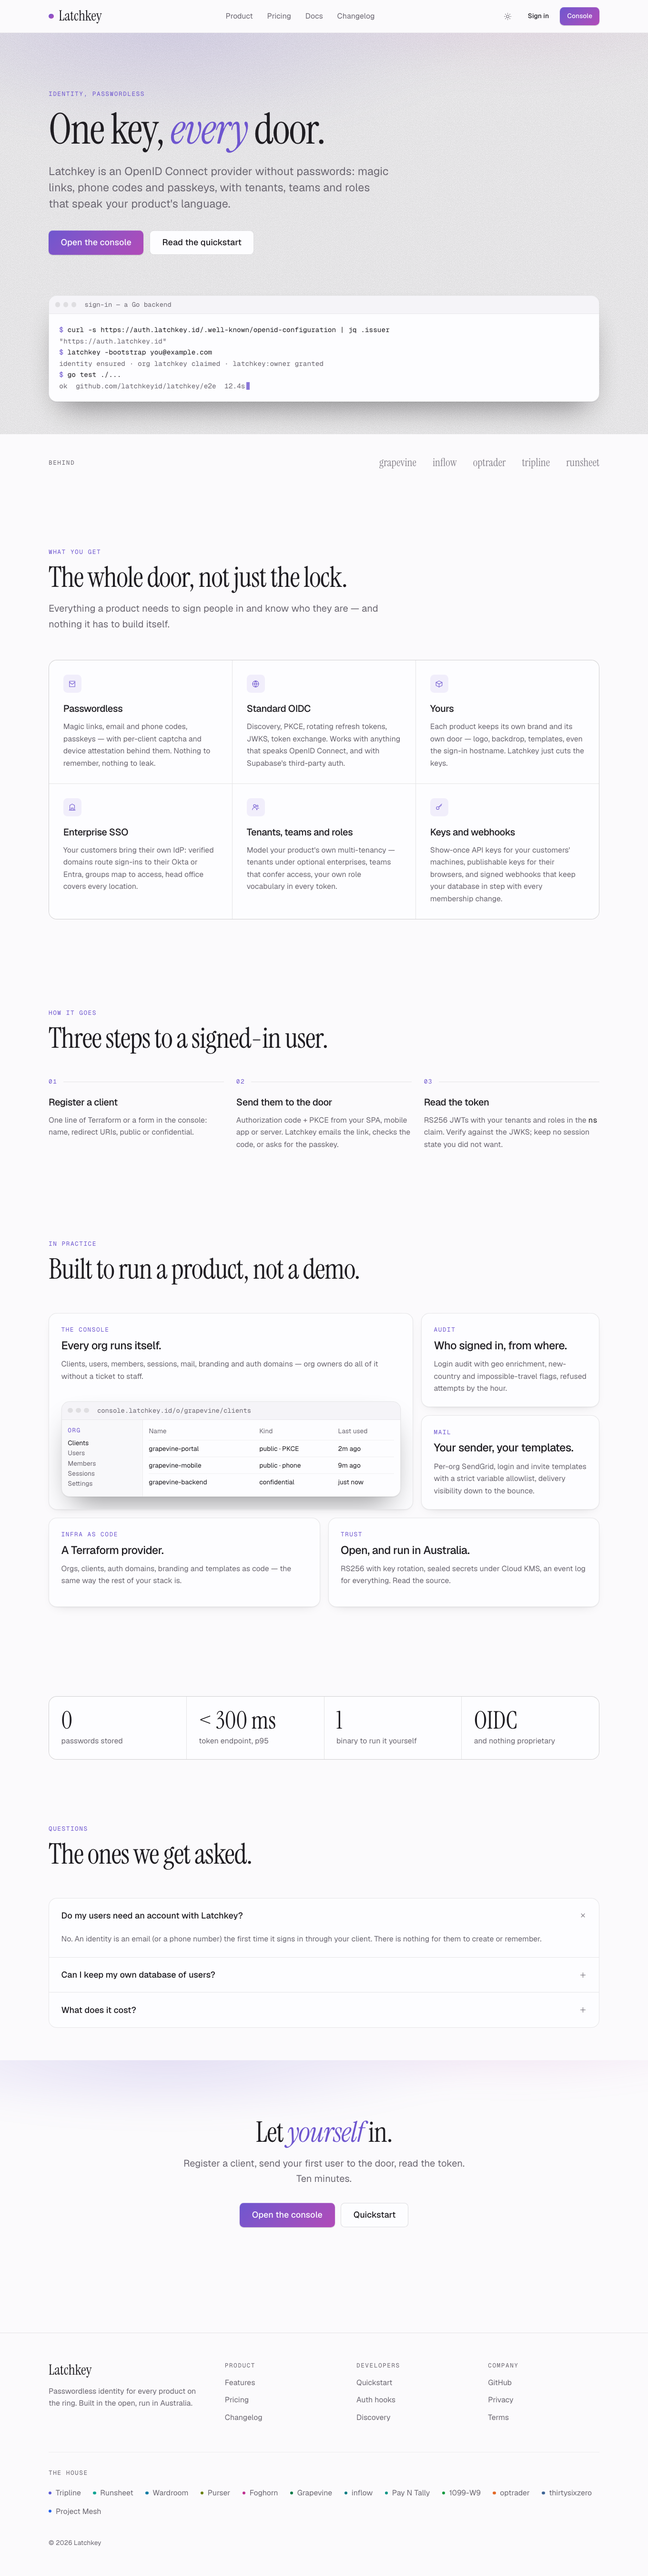
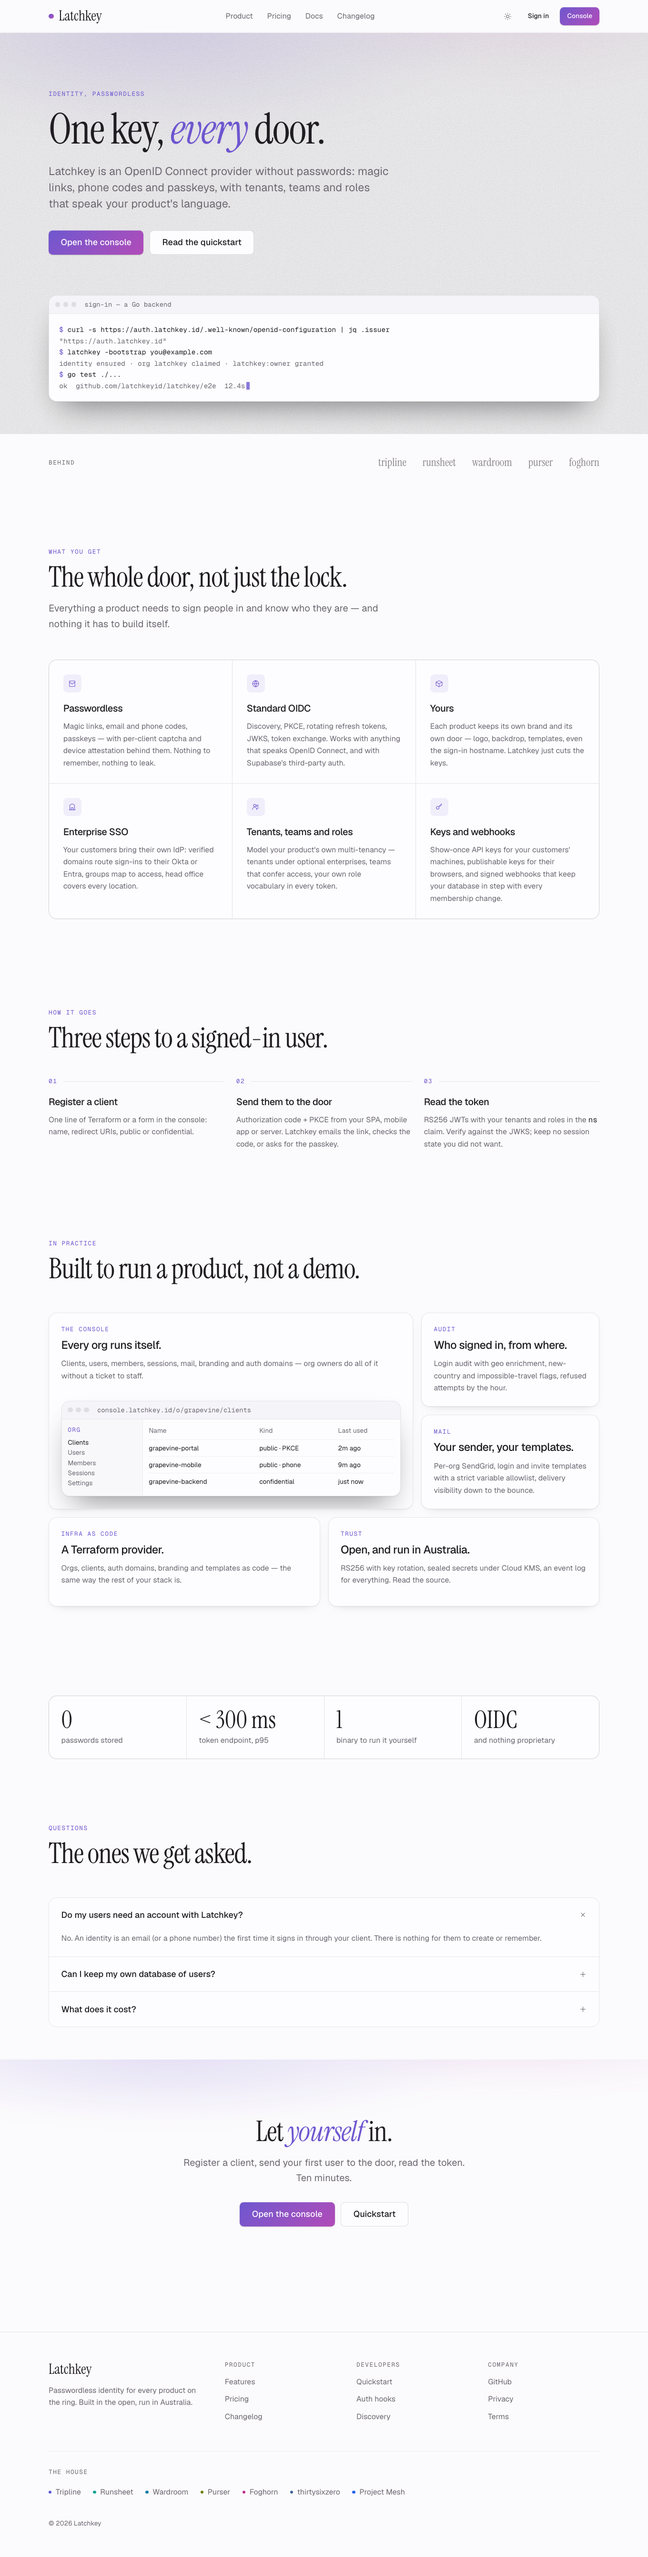
Scope the house to the eight products on this shell
Project Mesh and thirtysixzero are in, with their own adoption briefs
(mesh-marketing's Pages project and blue/cyan brand; thirtysixzero's
apex decision and provisional accent). grapevine, inflow, Pay N Tally,
1099-W9 and optrader are not part of this: out of house.ts, their
accent files, the playground, the screenshots and the rollout.

Claude-Session: https://claude.ai/code/session_01Vk95dPrsCrGZf9uXzuMiyh

diff --git a/src/house.ts b/src/house.ts
@@ -21,13 +21,8 @@ export const house: Product[] = [
   { id: "wardroom", name: "Wardroom", line: "The team hub: every tool's feed in one place.", url: "https://wardroom.id", accent: "wardroom", console: "https://app.wardroom.id" },
   { id: "purser", name: "Purser", line: "Support, contacts and leads for your products.", url: "https://purser.id", accent: "purser", console: "https://app.purser.id" },
   { id: "foghorn", name: "Foghorn", line: "Campaigns, email and attribution, loud and clear.", url: "https://foghorn.id", accent: "foghorn", console: "https://app.foghorn.id" },
-  { id: "grapevine", name: "Grapevine", line: "Local hiring for hospitality and retail.", url: "https://gvn.au", accent: "grapevine", console: "https://app.gvn.au" },
-  { id: "inflow", name: "inflow", line: "Filing and payments infrastructure for US businesses.", url: "https://myinflow.com", accent: "inflow" },
-  { id: "payntally", name: "Pay N Tally", line: "Contractor payments with the 1099s done.", url: "https://www.payntally.com", accent: "payntally" },
-  { id: "ten99", name: "1099-W9", line: "1099 filing, W-9 collection, TIN matching.", url: "https://1099-w9.com", accent: "ten99" },
-  { id: "optrader", name: "optrader", line: "The marketplace for card traders.", url: "https://optrader.com.au", accent: "optrader" },
   { id: "thirtysixzero", name: "thirtysixzero", line: "Configuration items, connected to the tools that run your business.", url: "https://thirtysixzero.io", accent: "thirtysixzero" },
-  { id: "projectmesh", name: "Project Mesh", line: "Specs, work items and agents, machine-authenticated.", url: "https://projectmesh.io", accent: "projectmesh" },
+  { id: "projectmesh", name: "Project Mesh", line: "The control plane for your AI agent fleet.", url: "https://projectmesh.io", accent: "projectmesh", console: "https://app.projectmesh.io" },
 ];
 
 export function product(id: string): Product | undefined {

diff --git a/e2e/screens.spec.ts b/e2e/screens.spec.ts
@@ -1,8 +1,8 @@
 import { expect, test, type Page } from "@playwright/test";
 
 // Every product's accent on the same page, light and dark, desktop and
-// phone: the proof that the shell is one design with thirteen skins.
-const themes = ["latchkey", "tripline", "runsheet", "wardroom", "purser", "foghorn", "grapevine", "inflow", "payntally", "ten99", "optrader", "thirtysixzero", "projectmesh"] as const;
+// phone: the proof that the shell is one design with eight skins.
+const themes = ["latchkey", "tripline", "runsheet", "wardroom", "purser", "foghorn", "projectmesh", "thirtysixzero"] as const;
 
 async function open(page: Page, path: string, theme: string, dark: boolean) {
   await page.emulateMedia({ reducedMotion: "reduce", colorScheme: dark ? "dark" : "light" });

diff --git a/docs/adopt/THIRTYSIXZERO.md b/docs/adopt/THIRTYSIXZERO.md
@@ -1,0 +1,37 @@
+# Adopt in thirtysixzero's www
+
+Repo: `thirtysixzero/thirtysixzero` — the product itself, a Next.js 16
+app (App Router, Supabase, Drizzle, pnpm) deployed on Vercel
+(`vercel.json`). There is no marketing site; the app's `app/page.tsx`
+is the entry. The `thirtysixzero.io` zone is in Cloudflare.
+
+- **Decision for Chris before starting**: the site wants the apex.
+  Either the app moves to `app.thirtysixzero.io` (a Vercel domain
+  change + a DNS record) and the site takes `thirtysixzero.io` +
+  `www.`, or the site lives at `www.thirtysixzero.io` only and the apex
+  stays the app. Write the brief's DNS step for whichever is chosen.
+- The site lives at `www/` in this repo, built and deployed by its own
+  workflow (`www.yml`: `paths: [www/**]`, Node 22, `npm ci && npm run
+  build`, `wrangler pages deploy dist --project-name thirtysixzero-www`;
+  repo secrets `CLOUDFLARE_API_TOKEN` / `CLOUDFLARE_ACCOUNT_ID`). The
+  Pages project, custom domain(s) and proxied CNAME(s) are new: add a
+  small `infra/cloudflare` stack on the wardroom shape (`FOGHORN.md`
+  has the resources; this zone takes `var.zone_id` like tripline's) —
+  or, if Chris prefers no Terraform in an app repo, say so and create
+  them in the dashboard, recorded in the PR.
+- Product id `thirtysixzero`; accent `thirtysixzero.css` is
+  **PROVISIONAL** (steel, `#3E6596` / `#7EA7DC`) — the app is black on
+  white with no brand colour. Confirm it with Chris or propose one from
+  the app's own UI before the first screenshot.
+- Copy from `README.md`: configuration items connected to the tools
+  that run your business — CI types, configuration items, plugins
+  (GitHub deployments, PagerDuty incidents, Stripe revenue),
+  connections. Hero headline suggestion: "Every system, on *one* item."
+  Hero visual: a `Window` of a CI ("Checkout Service") with three plugin
+  cards showing live data — the concept table made visible. Features =
+  the four concepts; Steps = create a CI type, add an item, attach a
+  plugin. No pricing until there is one. Docs: the README's concepts
+  and getting started as two MDX pages. Changelog: last three
+  user-visible commits.
+- Nav: Product, Docs, Changelog; primary "Sign in" → the app's URL
+  (whichever host it ends up on); no secondary.

diff --git a/docs/adopt/ROLLOUT.md b/docs/adopt/ROLLOUT.md
@@ -6,6 +6,9 @@ most read; then the three new services, which have no site at all and
 whose `infra/cloudflare` stacks are already in Terraform; then the
 products with sites that work today.
 
+**Not part of this**: grapevine, inflow, Pay N Tally, 1099-W9 and
+optrader keep their own sites and are not in `house.ts`.
+
 | # | Product | Site today | Where the new site lives | Accent | Status |
 | --- | --- | --- | --- | --- | --- |
 | 1 | latchkey | one hand-written HTML file + 2 docs pages, brass, in `latchkeyid/ui/www` | `latchkeyid/ui/www` (replace contents) | shell's, verbatim | ready — `LATCHKEY.md` |
@@ -14,9 +17,8 @@ products with sites that work today.
 | 4 | wardroom | none | `wardroomid/wardroom/www` | shell's | ready — `WARDROOM.md` |
 | 5 | tripline | none; apex parked at Namecheap | `triplineid/tripline/www` | shell's | ready — `TRIPLINE.md` |
 | 6 | runsheet | Astro on Cloudflare, slate/indigo hand-rolled, in `runsheet/website` | `runsheet/website` (swap the layout) | shell's | ready — `RUNSHEET.md` |
-| 7 | grapevine | Next.js at gvn.au with real content | `GrapevineNetwork/website` | from the site's brand | later — bigger port |
-| 8 | Pay N Tally, 1099-W9, inflow | Astro / Vite+React / — | their repos | payntally, ten99, inflow (provisional) | later |
-| 9 | optrader, thirtysixzero, Project Mesh | Next.js app / Next.js / raw HTML | their repos | provisional accents | later — confirm accents first |
+| 7 | Project Mesh | raw HTML + Tailwind CDN on the `mesh-marketing` Pages project, dark blue/cyan | `projectmesh-io/mesh-marketing` (replace contents) | from the site's variables | ready — `PROJECTMESH.md` |
+| 8 | thirtysixzero | none — the Next.js app on Vercel is at the apex | `thirtysixzero/thirtysixzero/www` | provisional (steel) — confirm | ready — `THIRTYSIXZERO.md` |
 
 Status moves to "shipped <date> <sha>" when the PR merges and the Pages
 deploy is live; note the live URL.

diff --git a/docs/adopt/PROJECTMESH.md b/docs/adopt/PROJECTMESH.md
@@ -1,0 +1,30 @@
+# Adopt in Project Mesh's www
+
+Repo: `projectmesh-io/mesh-marketing` — four hand-written HTML pages
+(`index`, `features`, `pricing`, `docs`) on Tailwind's CDN build, dark
+only, blue `#2563EB` → cyan `#06B6D4` with a grid background and a hero
+glow. Deployed by `.github/workflows/deploy.yml` (`wrangler-action`,
+`pages deploy .` to the Pages project `mesh-marketing`; secrets already
+in the repo). The `projectmesh.io` zone is in Cloudflare with DNS
+managed in the dashboard — **there is no infra repo; leave DNS and the
+Pages project as they are.**
+
+- Replace the repo's contents with the template. Product id
+  `projectmesh`; accent `projectmesh.css` (blue → cyan, from the old
+  site's variables); `site: "https://projectmesh.io"`. The old site was
+  dark-only; the new one follows the system — its dark mode is where
+  the old look lands, so **set `defaultTheme: "dark"`** on `Site` for
+  this product only.
+- Copy: the old `index.html`'s hero ("The intelligence layer for your AI
+  fleet") and feature copy, `features.html` → `Features`/`Bento`,
+  `pricing.html` → `Pricing` with the **real** tiers from that page,
+  `docs.html` → one or more `src/content/docs/` pages by its headings.
+  Hero visual: a `Terminal` of `mesh-cli` (see `projectmesh-io/mesh-cli`
+  README for its real first commands: authenticate, list specs, open a
+  work item) — not a screenshot of the old grid art.
+- Nav: Product, Pricing, Docs, Changelog; secondary "Sign in" and
+  primary "Console" → `https://app.projectmesh.io` (from `house.ts`).
+  Changelog: seed from `mesh-portal` / `mesh-api` recent releases.
+- `deploy.yml`: add `setup-node`, `npm ci`, `npm run build`, and change
+  the command to `pages deploy dist --project-name=mesh-marketing`.
+- Delete the four HTML files when the port is complete.

diff --git a/README.md b/README.md
@@ -2,8 +2,7 @@
 
 One design and one set of Astro layouts for the product marketing sites
 — **latchkey**, **tripline**, **runsheet**, **wardroom**, **purser**,
-**foghorn**, **grapevine**, **inflow**, **Pay N Tally**, **1099-W9**,
-**optrader**, **thirtysixzero** and **Project Mesh**. The sibling of
+**foghorn**, **Project Mesh** and **thirtysixzero**. The sibling of
 [`@latchkey/shell`](https://github.com/latchkeyid/shell), which does the
 same for the consoles: the same mauve neutral, the same accent per
 product, so "Console" in the nav lands somewhere that looks like where
@@ -21,7 +20,7 @@ every product's accent on the same page is in `docs/screenshots/`.
 
 `docs/adopt/` is the handover: `COMMON.md` (the rules for any site),
 `ROLLOUT.md` (order and status — latchkey, then foghorn, purser,
-wardroom, tripline, runsheet), and one brief per site with what differs.
+wardroom, tripline, runsheet, Project Mesh, thirtysixzero), and one brief per site with what differs.
 
 ## Start a site
 
@@ -83,5 +82,5 @@ npm run sync-accents   # copy the six console accents from ../shell
 ```
 
 Screenshots are the review: `docs/screenshots/<product>-{light,dark}.png`
-for all thirteen, `latchkey-full.png` for the whole page, `docs-dark`,
+for all eight, `latchkey-full.png` for the whole page, `docs-dark`,
 `pricing-light`, `changelog-light`, `foghorn-phone`.

diff --git a/docs/DESIGN.md b/docs/DESIGN.md
@@ -31,11 +31,9 @@ Consumed as a git dependency shipping Astro source, like the shell.
   alpha; cards lift by border and a soft two-layer shadow.
 - **Accent**: `--primary`, `--primary-foreground`, `--accent-2` (the
   second gradient stop), `--accent-soft`, `--ring`. The six console
-  products' files are the shell's, verbatim. The others (grapevine,
-  inflow, payntally, ten99, optrader, thirtysixzero, projectmesh) are
-  defined here from their sites' brand values where one exists; the
-  header of each file says its source, and three are marked
-  PROVISIONAL.
+  products' files are the shell's, verbatim. Project Mesh's is from its
+  site's brand variables (blue → cyan); thirtysixzero has no brand
+  colour on record and its file (steel) is marked PROVISIONAL.
 - **Type**: Geist body at 17px/1.65 (`text-base`), Geist Mono for
   eyebrows and code, **Instrument Serif** for display — `display-1`
   (hero, fluid 44–84px, tracking −0.02em), `display-2` (section
